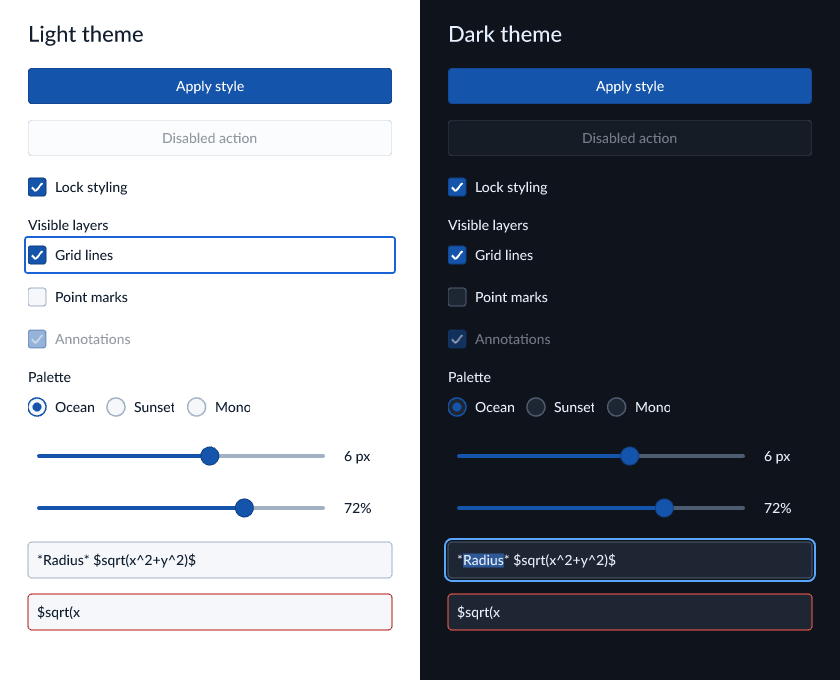
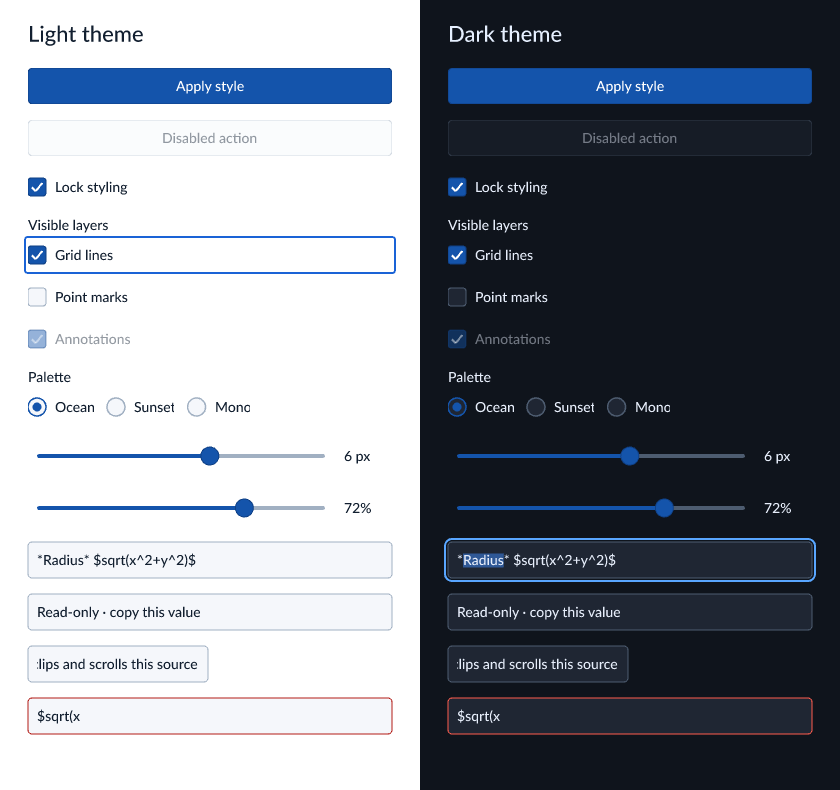
docs(widgets): explain control lifecycle and show rendered examples

diff --git a/avenger-widgets/examples/gallery.rs b/avenger-widgets/examples/gallery.rs
@@ -10,8 +10,18 @@ fn main() -> Result<(), Box<dyn std::error::Error>> {
     use avenger_wgpu::canvas::{Canvas, CanvasConfig, PngCanvas};
     use avenger_widgets::prelude::*;
     let engine = avenger_text::default_text_engine();
+    let path = std::env::args()
+        .nth(1)
+        .unwrap_or_else(|| "widgets-gallery.png".into());
+    let themes = match std::env::args().nth(2).as_deref() {
+        Some("light") => vec![false],
+        Some("dark") => vec![true],
+        None => vec![false, true],
+        _ => return Err("theme must be light or dark".into()),
+    };
+    let width = themes.len() as f32 * 420.0;
     let mut marks = Vec::new();
-    for (col, dark) in [false, true].into_iter().enumerate() {
+    for (col, dark) in themes.into_iter().enumerate() {
         let x = col as f32 * 420.0;
         let mut theme = if dark {
             WidgetTheme::dark()
@@ -40,7 +50,7 @@ fn main() -> Result<(), Box<dyn std::error::Error>> {
                 x: x.into(),
                 y: 0.0.into(),
                 width: Some(420.0.into()),
-                height: Some(680.0.into()),
+                height: Some(790.0.into()),
                 fill: ColorOrGradient::Color(background).into(),
                 ..Default::default()
             }
@@ -100,6 +110,14 @@ fn main() -> Result<(), Box<dyn std::error::Error>> {
             TextInput::new("source", "*Radius* $sqrt(x^2+y^2)$")
                 .semantic_name("Annotation source")
                 .into(),
+            TextInput::new("readonly", "Read-only · copy this value")
+                .read_only(true)
+                .into(),
+            TextInput::new(
+                "narrow",
+                "A narrow allocation clips and scrolls this source",
+            )
+            .into(),
             TextInput::new("invalid", "$sqrt(x")
                 .semantic_name("Invalid source")
                 .invalid(true)
@@ -113,7 +131,16 @@ fn main() -> Result<(), Box<dyn std::error::Error>> {
                 let size = prepared.metrics(spec.id().clone()).unwrap().preferred;
                 prepared.place(
                     spec.id().clone(),
-                    Rect::new(x + 28.0, y, 364.0, size.height),
+                    Rect::new(
+                        x + 28.0,
+                        y,
+                        if spec.id().as_str() == "narrow" {
+                            180.0
+                        } else {
+                            364.0
+                        },
+                        size.height,
+                    ),
                     None,
                 )?;
                 y += size.height + 16.0;
@@ -150,13 +177,37 @@ fn main() -> Result<(), Box<dyn std::error::Error>> {
     }
     let scene = SceneGraph {
         marks,
-        width: 840.0,
-        height: 680.0,
+        width,
+        height: 790.0,
         origin: [0.0; 2],
     };
+    match std::path::Path::new(&path)
+        .extension()
+        .and_then(|s| s.to_str())
+    {
+        Some("svg") => {
+            std::fs::write(
+                &path,
+                avenger_svg::SvgRenderer::new()
+                    .with_text_engine(engine)
+                    .render_scene_graph(&scene)?,
+            )?;
+            return Ok(());
+        }
+        Some("pdf") => {
+            std::fs::write(
+                &path,
+                avenger_pdf::PdfRenderer::new()
+                    .with_text_engine(engine)
+                    .render_scene_graph(&scene)?,
+            )?;
+            return Ok(());
+        }
+        _ => {}
+    }
     let mut canvas = pollster::block_on(PngCanvas::new(
         CanvasDimensions {
-            size: [840.0, 680.0],
+            size: [width, 790.0],
             scale: 1.0,
         },
         CanvasConfig {
@@ -166,9 +217,6 @@ fn main() -> Result<(), Box<dyn std::error::Error>> {
     ))?;
     canvas.set_scene(&scene)?;
     let image = pollster::block_on(canvas.render())?;
-    let path = std::env::args()
-        .nth(1)
-        .unwrap_or_else(|| "widgets-gallery.png".into());
     image.save(&path)?;
     println!("{path}");
     Ok(())

diff --git a/avenger-widgets/README.md b/avenger-widgets/README.md
@@ -110,3 +110,72 @@ Read-only fields allow caret navigation, selection, and copying. Caret blinking
 runs only for a focused editable field with a visible caret. Selection dragging
 can scroll horizontally, including while the pointer remains beyond a field edge.
 Selection queries expose byte offsets at grapheme boundaries.
+
+Allocate controls with `WidgetMetrics::preferred` or choose a smaller rectangle
+and let the content clip. `minimum` describes the control's compact geometry.
+`baseline` is the first text baseline relative to its allocation, and
+`paint_overflow` reserves space for the focus outline. Hover, press, and focus
+change paint without changing intrinsic measurements. Place the fragment at the
+root origin because allocations and IME rectangles use root coordinates.
+
+The optional placement clip constrains drawing and picking. The content also
+clips to its allocation, while a focus outline may extend by `paint_overflow`.
+A fully clipped control cannot receive focus. The runtime checks the complete
+scene's topmost interactive mark, so an overlay can block a widget. Decorative
+widget marks do not participate in picking. If another part of the application
+changes interactive geometry, set `rebuild_geometry` on its update.
+
+Use one runtime per canvas. Keep IDs stable across builds and distinct within
+that runtime. Group-item IDs need to be distinct only within their group. A live
+ID cannot switch control kinds. Removing and later reusing an ID starts a new
+attachment, so delayed input and wakeups cannot target its replacement.
+
+The application processes two kinds of output. `handle` returns user actions and
+input effects. `install` returns lifecycle notifications and effects caused by
+reconciliation, such as removal or disabling. Apply user values before the next
+build. Publish install effects only with the corresponding successful scene.
+Keep application work such as validation, data loading, and typesetting separate
+from the widget's commit schedule.
+
+The keyboard map follows each control's value model:
+
+| Control | Keys |
+|---|---|
+| Button | Enter activates on press. Space activates on release. Escape cancels a pending press. |
+| Checkbox or checkbox-group item | Space toggles on release. Escape cancels a pending press. |
+| Radio group | Arrow keys move and select. Space selects the focused item. |
+| Slider | Arrow keys change by one increment. Page Up/Down change by ten. Home/End select endpoints. Key repeat previews, and release commits. |
+| Text input | Arrows, Home/End, Shift selection, word navigation/deletion, select all, clipboard, undo, and redo. Enter submits. Escape cancels. |
+
+Mac text shortcuts use Command for select all, clipboard, history, and line
+start/end, and Option for word navigation. Other platforms use Control for
+shortcuts and words. Command+Shift+Z and Control+Y redo. `TextInput` remains a
+plain source editor when another part of the application typesets its draft.
+`text_is_composing` lets a caller display composition feedback without reading or
+modifying the editor internals.
+
+Concrete theme fields control fonts, spacing, paint states, and focus outlines.
+Use the same `TextEngine` to prepare controls and render the full scene, including
+its font configuration. The runtime emits ordinary scenegraph marks, so an idle
+frame can also be exported through the SVG and PDF renderers.
+
+```sh
+cargo run --release -p avenger-widgets --example gallery -- widgets-light.png light
+cargo run --release -p avenger-widgets --example gallery -- widgets-dark.png dark
+cargo run --release -p avenger-widgets --example gallery -- widgets.svg
+cargo run --release -p avenger-widgets --example gallery -- widgets.pdf
+```
+
+The first version supports desktop mouse and keyboard input, single-line text,
+and horizontal sliders. It does not provide touch gestures, multiline or rich
+text editing, container scrolling, automatic form validation, or native
+accessibility nodes. Semantic snapshots are an input to a future accessibility
+adapter, not a screen-reader integration.
+
+See [Plot Style Studio](../examples/winit-widgets/README.md) for a complete native
+and WASM application. The [annotation editor](../examples/winit-annotation-editor)
+and [panels explorer](../examples/winit-panels) show reuse in other applications.
+A higher-level chart API can map widget IDs and typed actions to its own
+parameters, lay out the measured controls, and schedule work on commit. Those
+bindings belong in that API. The widget crate has no chart, language, expression,
+query-engine, or theme-selector dependency.
